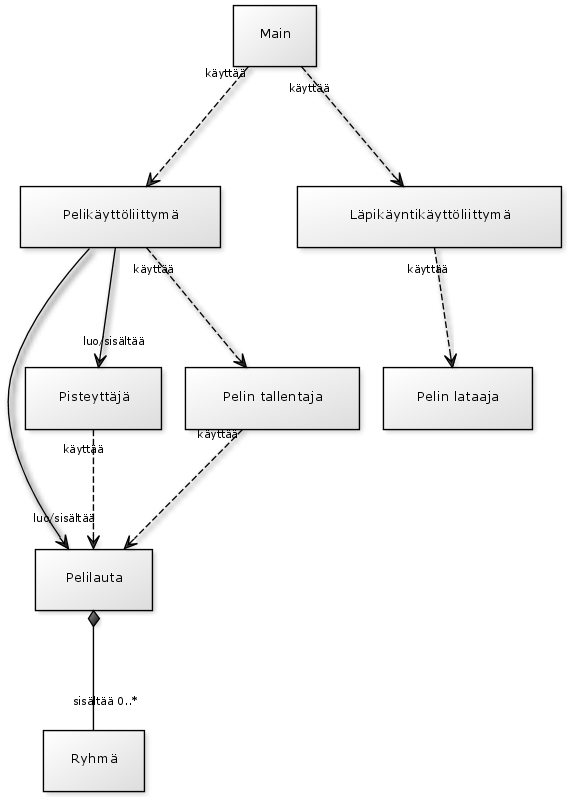
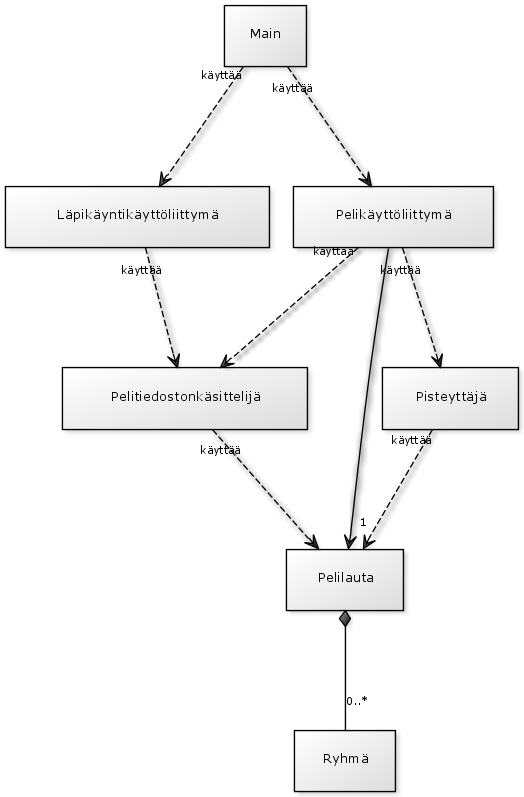
mahdollistettu pelin tallentaminen, paivitetty hieman sekvenssikaavioita ja tehty yksi sekvenssikaavio lisaa. todennakoisesti tuohon kolmanteen sekvenssikaavioon tulee viela toinen osa, josta kay ilmi tallennaPelatunPelin toiminta tarkemmin

diff --git a/Go/src/kayttoliittyma/Pelikayttoliittyma.java b/Go/src/kayttoliittyma/Pelikayttoliittyma.java
@@ -5,6 +5,7 @@
 package kayttoliittyma;
 
 import pelilogiikka.*;
+import tiedostonkasittely.*;
 import java.util.Scanner;
 import java.util.ArrayList;
 
@@ -265,6 +266,9 @@ public class Pelikayttoliittyma {
         if (mustanPisteet > valkeanPisteet) System.out.println("Musta voitti " + (mustanPisteet-valkeanPisteet) + " pisteellä.");
         else if (mustanPisteet < valkeanPisteet) System.out.println("Valkea voitti " + (valkeanPisteet-mustanPisteet) + " pisteellä.");
         else System.out.println("Tasapeli!");
+        System.out.println("Tallennetaanko peli? k/e ");
+        String syote = input.nextLine();
+        if (syote.equals("k")) tallennaPeli();
     }
     
     /**
@@ -386,6 +390,25 @@ public class Pelikayttoliittyma {
                 viimeisinSiirto = viimeisimmänSiirronXKoordinaatti + "" + viimeisimmanSiirronYKoordinaatti;
             } else viimeisinSiirto = "";
             siirtojenMaara--;
+        }
+    }
+    
+    /**
+     * Metodi tallentaa pelin käyttäjän antamaan tiedostoon
+     */
+    
+    public void tallennaPeli() {
+        Pelitiedostonkasittelija tiedostonkasittelija = new Pelitiedostonkasittelija();
+        while (true) {
+            System.out.print("Anna tallennettavan tiedoston nimi: ");
+            String syote = input.nextLine();
+            if (!tiedostonkasittelija.tallennaPelattuPeli(pelilauta,syote)) {
+                System.out.println("Virhe tiedoston tallentamisessa, anna toinen nimi tiedostolle");
+            }
+            else { 
+                System.out.println("Peli tallennettu tiedostoon " + syote + " !");
+                break;
+            }
         }
     }
    
